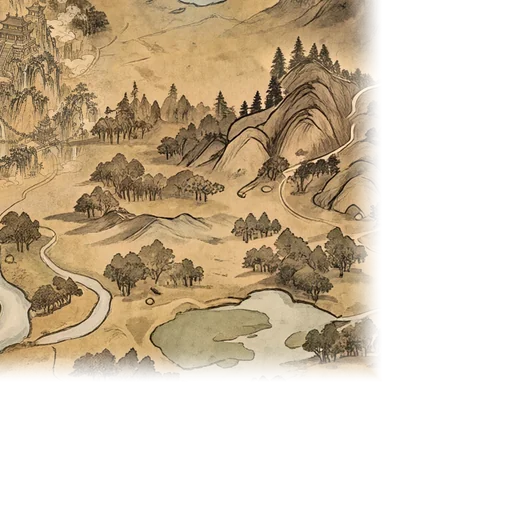
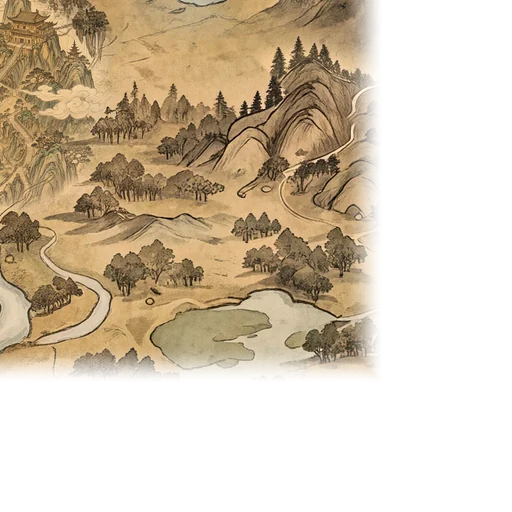
Bản đồ: vẽ địa điểm bản nhẹ (khung 1280, Qwen 8 bước vẽ lại 60%, LanPaint 2 vòng, lệnh qwen2), vẽ lại tông môn quận 5; thêm skill ve-dia-diem-ban-do

Changed region(s): [[0.0, 0.0, 0.2188, 0.4062]]

diff --git a/tools/quan-ve.py b/tools/quan-ve.py
@@ -17,7 +17,7 @@ ROOT = os.path.dirname(os.path.dirname(os.path.abspath(__file__)))
 os.chdir(ROOT)
 GOC = 'src/assets-goc/ban-do/Hidden-map - Backup.webp'
 WW, WH = 3556, 2000
-S2 = 3.0; TS = 512; N = 1536; BG = float(os.environ.get('BG', 0.62))
+S2 = 3.0; TS = 512; N = int(os.environ.get('KHUNG', 1280)); BG = float(os.environ.get('BG', 0.62))
 MUC = {0: 0.75, 1: 1.5, 2: 3.0}
 MODEL = 'qwen-image-2.1-UC-int8_convrot.safetensors'
 XAY = ('tong', 'thanh', 'tuthanh', 'tran', 'tutran', 'ancu', 'khoang', 'ditich', 'dongthien', 'linhdia', 'como', 'bicanh', 'duoc', 'sao', 'cho', 'phe')
@@ -80,7 +80,7 @@ def wf_lp(img1, prompt, seed, pre, mask, mo='klein', res=N, buoc=None, refs=()):
          '18': T('VAEEncode', {'pixels': ['6', 0], 'vae': ['5', 0]}, 'Encode map'),
          '20': T('SetLatentNoiseMask', {'samples': ['18', 0], 'mask': ['19', 0]}, 'Noise mask'),
          '13': T('LanPaint_SamplerCustomAdvanced', {'noise': ['10', 0], 'guider': ['9', 0], 'sampler': ['11', 0], 'sigmas': ['12', 0], 'latent_image': ['20', 0],
-                 'LanPaint_NumSteps': 5, 'LanPaint_Lambda': 4.0, 'LanPaint_StepSize': 0.15, 'LanPaint_Beta': 1.0, 'LanPaint_Friction': 15.0,
+                 'LanPaint_NumSteps': int(os.environ.get('LP', 2)), 'LanPaint_Lambda': 4.0, 'LanPaint_StepSize': 0.15, 'LanPaint_Beta': 1.0, 'LanPaint_Friction': 15.0,
                  'LanPaint_PromptMode': 'Image First', 'LanPaint_EarlyStop': 1, 'LanPaint_Info': '', 'LanPaint_InnerThreshold': 0.02, 'LanPaint_InnerPatience': 1}, 'LanPaint sample'),
          '14': T('VAEDecode', {'samples': ['13', 0], 'vae': ['5', 0]}, 'Decode'),
          '15': T('SaveImage', {'images': ['14', 0], 'filename_prefix': pre}, 'Save')}
@@ -466,6 +466,15 @@ def xuat(q, bc=None):
         'const O_ANH=' + json.dumps({'t': TS, 's': [MUC[0], MUC[1], MUC[2]], 'o': cu, 've': sorted(ve)}, separators=(',', ':')) + ';\n')
     print({k: len(v) for k, v in ds.items()})
 
+# Bước 2 (Qwen 2.1 vẽ lại nét) — bản nhẹ đã duyệt: 8 bước, vẽ lại 60 phần trăm, LanPaint 2 vòng, khung 1280 (nơi nhỏ/trấn/thành nhỏ dùng KHUNG=1024).
+P_Q2 = {'tong': "Inpaint the blurred area of this hand-painted antique Chinese fantasy world map with a grand immortal sect: steep rock peaks crowned with tiers of palace halls and pagodas joined by stone stairways, small floating mountains with pavilions, chains and thin waterfalls, bands of soft cloud. Drawn in exactly the same ink style as this map: the same brown-black ink pen lines, warm sepia, ochre and faded grey-green washes, same darkness and contrast, same high oblique bird's-eye view; no bright colours, no illustration look. Its ground merges seamlessly into the surrounding land. Keep everything outside the blurred area exactly as it is. No text."}
+def wf_qwen2(q, k, loai, seed=73, buoc=8, dn=0.6):
+    """Qwen bắt đầu từ bản Klein (qv<q>-v<k>-klein-vao.png), ảnh mẫu là bản đồ gốc (qv<q>-v<k>-vao.png)."""
+    w = wf_lp(f'qv{q}-v{k}-vao.png', P_Q2.get(loai, P_VB[loai]), seed, f'qv{q}-v{k}-nhe', f'qv{q}-v{k}-mn.png', 'qwen', buoc=buoc)
+    w['22'] = {'class_type': 'LoadImage', 'inputs': {'image': f'qv{q}-v{k}-klein-vao.png'}, '_meta': {'title': 'Klein start'}}
+    w['18']['inputs']['pixels'] = ['22', 0]; w['12']['inputs']['denoise'] = dn
+    return w
+
 if __name__ == '__main__':
     a = sys.argv[1:]
     if a[0] == 'chuan-bi': chuan_bi(int(a[1]))
@@ -486,4 +495,7 @@ if __name__ == '__main__':
             "but do not copy their layout and do not paste them: paint a new sect fitted into the blurred area of image 1, blending into image 1's land.")
         json.dump(wf_lp(f'qv{q_}-v{k_}-vao.png', p_, 71, f'qv{q_}-v{k_}-kref', f'qv{q_}-v{k_}-mn.png', 'klein', refs=(f'qv{q_}-ref-tong-1.png', f'qv{q_}-ref-tong-2.png')), open(d_ + f'ra/v{k_}-kref.json', 'w'))
         print(os.path.abspath(d_ + f'ra/v{k_}-kref.json'))
+    elif a[0] == 'qwen2':  # qwen2 <q> <k> <loai>: workflow Qwen bước 2 (sau khi tải bản Klein về thành qv<q>-v<k>-klein-vao.png và upload)
+        q_, k_, lo_ = int(a[1]), int(a[2]), a[3]; d_ = D(q_)
+        json.dump(wf_qwen2(q_, k_, lo_), open(d_ + f'ra/v{k_}-nhe.json', 'w')); print(os.path.abspath(d_ + f'ra/v{k_}-nhe.json'))
     elif a[0] == 'ghepk': ghep_k(int(a[1]), int(a[2]), a[3])

diff --git a/.claude/skills/ve-dia-diem-ban-do/SKILL.md b/.claude/skills/ve-dia-diem-ban-do/SKILL.md
@@ -1,0 +1,34 @@
+---
+name: ve-dia-diem-ban-do
+description: Vẽ địa điểm (tông môn, thành, trấn, nơi nhỏ) thẳng vào bản đồ đã khám phá của Phù Sinh bằng ComfyUI (Klein 9B + Qwen 2.1 + LanPaint) rồi ghép và xuất ô ảnh. Dùng khi người dùng nhờ vẽ/vẽ lại một nơi trên bản đồ, đổi tốc độ vẽ, hoặc làm tiếp các quận.
+---
+
+# Vẽ địa điểm vào bản đồ (tools/quan-ve.py)
+
+Đọc trước: phần "Vẽ địa điểm vào bản đồ" và "Bản đồ chia ô ảnh" trong CLAUDE.md, và `docs/thiet-ke/ve-dia-diem-ban-do.md`.
+
+## Quy tắc người dùng (bắt buộc)
+- Cách mới / nơi mới: chỉ chạy **1 khung nhỏ**, gửi ảnh so sánh trước–sau (SendUserFile), chờ duyệt rồi mới làm tiếp. Không vẽ cả quận một lượt.
+- Vẽ thẳng trên bản đồ đã khám phá (không dùng bản chưa mở). Không vẽ asset rời rồi dán.
+- Hạn chế kiểm tra; vẽ xong ghép vào game cho người dùng xem. Trả lời ngắn, ít thuật ngữ. Kiểm tra xong thì commit + đẩy main.
+- Luôn Qwen 2.1 bản đầy đủ (không Turbo). Tông môn: lâu đài nổi, xích, thác, mây ngang; góc nhìn xiên cao như bản đồ.
+
+## Thiết lập nhẹ đã duyệt (2026-11-27, ~30 giây Qwen thay vì 100–200)
+- Khung `KHUNG=1280` (mặc định). Nơi nhỏ / trấn / thành nhỏ dùng `KHUNG=1024`. Tông môn 37 ô cao ~1016 nên không dùng 1024.
+- LanPaint 2 vòng (`LP=2`, mặc định). Klein 8 bước. Qwen 8 bước, vẽ lại 60% (`wf_qwen2`).
+- Nơi nhỏ/trấn: có thể chỉ cần Klein hoặc chỉ Qwen; gộp vài nơi gần nhau vào một khung. Chạy liên tiếp để model còn nạp sẵn (lần đầu chậm vì nạp model).
+
+## Các bước (chạy từ thư mục gốc dự án, `PYTHONIOENCODING=utf-8`, đặt `KHUNG`/`LP` cho mọi lệnh cùng một lượt)
+1. `python tools/quan-ve.py ve <q> <k> <loai>`: cắt khung, làm mờ vùng nơi đó, tạo mặt nạ (`ra/qv<q>-v<k>-vao.png`, `-mn.png`). Khung 0 reset `lam.png` từ nền: sao lưu `work/quan-<q>/lam.png` trước.
+2. `python tools/quan-ve.py lpref <q> <k> <loai>`: tạo `ra/v<k>-kref.json` (Klein + LanPaint + 2 ảnh mẫu tông môn).
+3. comfy-mcp `upload_file` (overwrite) vao + mn → `run_workflow` kref → tải kết quả bằng `curl http://127.0.0.1:8000/view?filename=...&type=output` (fetch_outputs bị lỗi) → lưu thành `ra/qv<q>-v<k>-klein-vao.png` và upload lại.
+4. `python tools/quan-ve.py qwen2 <q> <k> <loai>` → `run_workflow ra/v<k>-nhe.json` → curl tải ảnh.
+5. `python tools/quan-ve.py ghepk <q> <k> <ảnh.png>`: khớp màu, loang mực, bớt vàng ra rìa, giữ cây gốc (`GIU_CAY=0` nếu cây che mất nơi vẽ), cắt ô ảnh, sinh `03d-o-anh.js`.
+6. Tạo ảnh so sánh cũ/mới, gửi người dùng. `npm run build`, `node tools/test.js`, `node tools/test-ui.js o_anh_ban_do`; được duyệt thì commit + đẩy main.
+
+## Bẫy đã gặp
+- Cho Qwen xem ảnh Klein làm ảnh mẫu thì nó chép y: ảnh mẫu phải là bản đồ gốc, Klein chỉ là latent khởi đầu.
+- Vẽ bù mẫu rời rồi dán bị chê (lộ vết ghép, lệch màu, vàng quá); màu phải kéo về màu bản đồ ở rìa.
+- Qwen với mặt nạ mềm không LanPaint sẽ chép ảnh vào; luôn dùng LanPaint.
+- Bố cục nơi (`DD_BOCUC`) cố định: đổi luật đặt nơi phải chạy lại `node tools/dd-luu.js` và vẽ lại các quận đã vẽ.
+- Cây phía trước phủ lên chân nơi vẽ bị mờ: dùng giữ cây (mặc định bật).

diff --git a/CLAUDE.md b/CLAUDE.md
@@ -68,4 +68,4 @@ Người dùng không phải lập trình viên: trả lời ngắn, ít thuật
 - **Địa điểm = lục giác lớn** 1/7/19/37 ô (`hinhLG`, `lgCo` ở core2/33 `growPlaces`): tông môn 7/19/37, thành 7/19, trấn 1/7. Không đặt lên núi / ô `O_CHE`; tông môn lõi 7 ô phải trống, vòng ngoài lấn núi ≤1/3 (vùng toàn núi thì nới dần). Bài `dat_thanh_tran`, `ten_co_dinh` (tên chỉ ngẫu nhiên khi tạo thế giới, kiếp sau giữ nguyên).
 - **Bố cục cố định là DỮ LIỆU**: `DD_BOCUC` (core2/03e, sinh bằng `node tools/dd-luu.js`), `ddBoCuc` đọc từ đó — đừng sinh lại bằng máy ngẫu nhiên (lệch so với ảnh đã vẽ). core2/91 phải nạp TRƯỚC ui/ (thế giới đầu tiên tạo lúc nạp trang). Đổi luật đặt nơi thì phải chạy lại dd-luu và vẽ lại các quận đã vẽ.
 - **Bản đồ chia ô ảnh** (`O_ANH` core2/03d, `oAnh` ở ui/05-gfx.js): ô 512 ở 3 mức 0,75/1,5/3 điểm ảnh mỗi đơn vị (src/assets/ban-do/o/<mức>/<x>-<y>.webp), phóng tới đâu tải tới đó, chưa tải thì mượn mức thô; nơi trong `O_ANH.ve` không chồng ảnh rời. Phóng tối đa `ZMAX`=3, ngưỡng hiện chữ/icon theo `ZREF`=1.5. Bài giao diện `o_anh_ban_do`.
-- **Vẽ địa điểm vào bản đồ** (`tools/quan-ve.py`, quy trình đã duyệt): `ve <q> <k> <loại>` cắt khung 1536 ở mức 2 từ chính bản đồ, khoanh vùng nơi đó (lõi chỉ làm nhoè) → `lpref` Klein 9B + LanPaint vẽ bù kèm ảnh mẫu (dd/thu-moi/ref-1/2) → Qwen 2.1 + LanPaint vẽ lại 75% bắt đầu từ bản Klein nhưng ảnh mẫu là bản đồ gốc (cho Qwen nhìn bản Klein thì nó chép y) → `ghepk`: khớp màu, mép loang mực (`loang`), màu + bớt vàng dần ra rìa, giữ cây gốc (`GIU_CAY=0` để tắt, tuỳ nơi) → cắt ô ảnh. Cách cũ (vẽ mẫu rời rồi dán, sửa cả khung) bị chê. Chạy qua comfy-mcp (fetch_outputs lỗi: tải bằng curl `/view`). Đã vẽ: tông môn quận 5. Cách mới: thử 1 khung trước.
+- **Vẽ địa điểm vào bản đồ** (`tools/quan-ve.py`, quy trình đã duyệt): `ve <q> <k> <loại>` cắt khung 1536 ở mức 2 từ chính bản đồ, khoanh vùng nơi đó (lõi chỉ làm nhoè) → `lpref` Klein 9B + LanPaint vẽ bù kèm ảnh mẫu (dd/thu-moi/ref-1/2) → Qwen 2.1 + LanPaint vẽ lại 75% bắt đầu từ bản Klein nhưng ảnh mẫu là bản đồ gốc (cho Qwen nhìn bản Klein thì nó chép y) → `ghepk`: khớp màu, mép loang mực (`loang`), màu + bớt vàng dần ra rìa, giữ cây gốc (`GIU_CAY=0` để tắt, tuỳ nơi) → cắt ô ảnh. Cách cũ (vẽ mẫu rời rồi dán, sửa cả khung) bị chê. Chạy qua comfy-mcp (fetch_outputs lỗi: tải bằng curl `/view`). Đã vẽ: tông môn quận 5. Cách mới: thử 1 khung trước. Bản nhẹ đã duyệt (khung 1280, Klein 8 bước, Qwen 8 bước vẽ lại 60%, LanPaint 2 vòng, lệnh `qwen2`); chi tiết ở `.claude/skills/ve-dia-diem-ban-do`.
